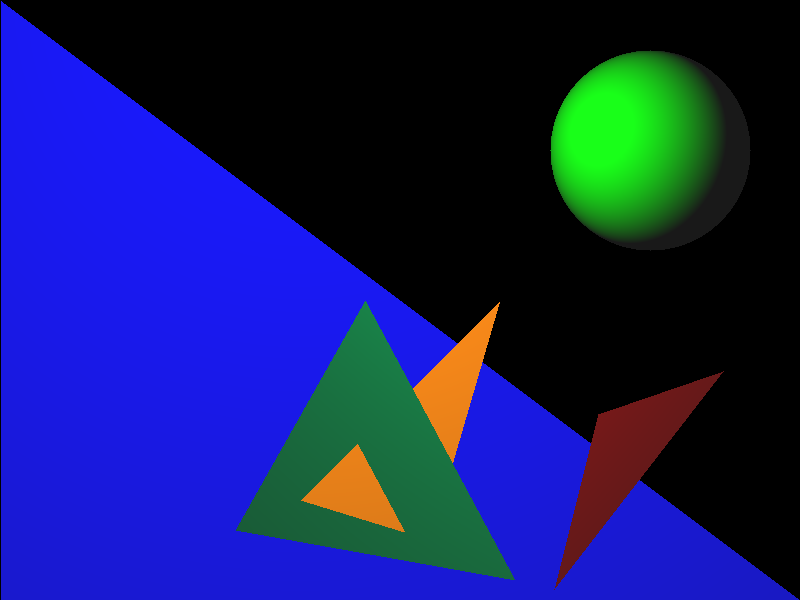
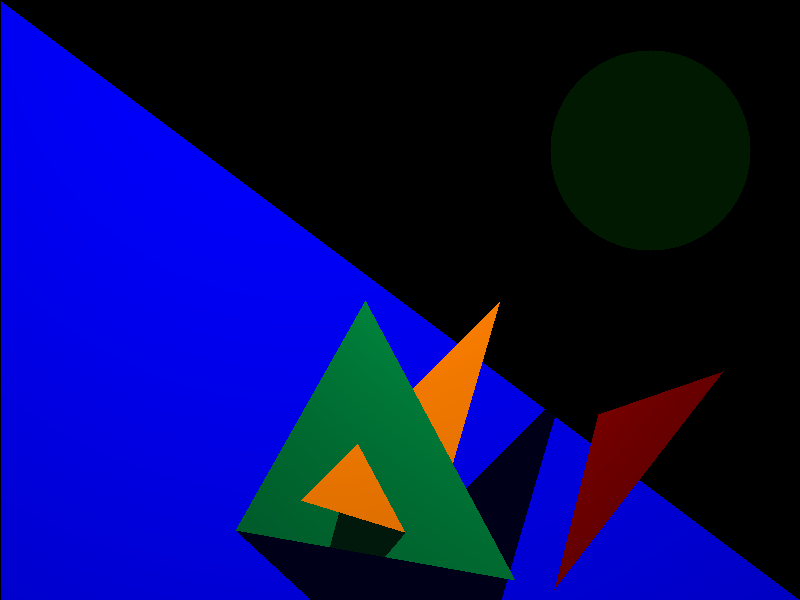
add progress on sphere with shadows

diff --git a/Commons/RayTracer.cs b/Commons/RayTracer.cs
@@ -21,47 +21,71 @@ public class RayTracer(List<IObject3D> sceneObjects, List<LightSource> lightSour
             if (hasHit && intersectionDistance < nearestIntersection)
             {
                 nearestIntersection = intersectionDistance;
+                color = RgbColor.Black;
 
                 var intersectionPoint = CalcHelper.IntersectionPoint(ray, intersectionDistance);
 
-                color = sceneObject switch
-                {
-                    ITriangleBased triangleBased => ColorTriangleBased(triangleBased, intersectionPoint),
-                    Sphere sphere => ColorSphere(sphere, intersectionPoint),
-                    _ => color
-                };
+                foreach (var lightSource in LightSources)
+                    color += sceneObject switch
+                    {
+                        ITriangleBased triangleBased => ColorTriangleBased(triangleBased, intersectionPoint, lightSource),
+                        Sphere sphere => ColorSphere(sphere, intersectionPoint, lightSource),
+                        _ => color
+                    };
+                color += sceneObject.Color * AmbientLight;
             }
         }
 
         return color;
     }
 
-    private RgbColor ColorSphere(Sphere sphere, Vector3D intersectionPoint)
+    private RgbColor ColorSphere(Sphere sphere, Vector3D intersectionPoint, LightSource lightSource)
     {
-        var color = RgbColor.Black;
-        foreach (var lightSource in LightSources)
-        {
-            var n = (intersectionPoint - sphere.Center).Normalize();
-            var s = (lightSource.Position - intersectionPoint).Normalize();
+        var vectorToLightSource = (lightSource.Position - intersectionPoint).Normalize();
+        var intersectionPointIsInShadow = CheckRayIntersectionWithOtherObjects(vectorToLightSource, intersectionPoint, lightSource);
 
-            var colorFactor = s.ScalarProduct(n) > 0 ? s.ScalarProduct(n) : 0;
-            color += new RgbColor(sphere.Color.R, sphere.Color.G, sphere.Color.B) * colorFactor + AmbientLight;
+        if (!intersectionPointIsInShadow)
+        {
+            var normalized = (intersectionPoint - sphere.Center).Normalize();
+            var colorFactor = Math.Max(0, normalized.ScalarProduct(vectorToLightSource));
+            return sphere.Color * lightSource.Color * colorFactor * lightSource.Intensity;
         }
 
-        return color;
+        return RgbColor.Black;
     }
 
-    private RgbColor ColorTriangleBased(ITriangleBased triangle, Vector3D intersectionPoint)
+    private RgbColor ColorTriangleBased(ITriangleBased triangleBased, Vector3D intersectionPoint, LightSource lightSource)
     {
-        var color = RgbColor.Black;
-        foreach (var lightSource in LightSources)
-        {
-            var vectorToLightSource = (lightSource.Position - intersectionPoint).Normalize();
-            var colorFactor = Math.Max(0, triangle.Normalized.ScalarProduct(vectorToLightSource));
+        var vectorToLightSource = (lightSource.Position - intersectionPoint).Normalize();
+        var intersectionPointIsInShadow = CheckRayIntersectionWithOtherObjects(vectorToLightSource, intersectionPoint, lightSource);
 
-            color += triangle.Color * lightSource.Color * colorFactor * lightSource.Intensity + AmbientLight;
+        if (!intersectionPointIsInShadow)
+        {
+            var colorFactor = Math.Max(0, triangleBased.Normalized.ScalarProduct(vectorToLightSource));
+            return triangleBased.Color * lightSource.Color * colorFactor * lightSource.Intensity;
         }
 
-        return color;
+        return RgbColor.Black;
+    }
+
+    private bool CheckRayIntersectionWithOtherObjects(Vector3D vectorToLightSource, Vector3D intersectionPoint, LightSource lightSource)
+    {
+        var intersectionPointIsInShadow = false;
+        var rayToLightSource = new Ray(intersectionPoint + vectorToLightSource * MathConstants.Epsilon, vectorToLightSource);
+        var distanceToLightSource = Math.Abs((intersectionPoint - lightSource.Position).Length);
+        foreach (var sceneObject in SceneObjects)
+        {
+            var (hasHit, intersectionDistance) = sceneObject.NextIntersection(rayToLightSource);
+            if (!hasHit) continue;
+
+            var intersectionPointWithOtherObject = CalcHelper.IntersectionPoint(rayToLightSource, intersectionDistance);
+
+            var distanceToIntersectionPointWithOtherObject = Math.Abs((intersectionPoint - intersectionPointWithOtherObject).Length);
+
+            if (distanceToIntersectionPointWithOtherObject < distanceToLightSource)
+                intersectionPointIsInShadow = true;
+        }
+
+        return intersectionPointIsInShadow;
     }
 }

diff --git a/Shadows/Program.cs b/Shadows/Program.cs
@@ -13,13 +13,13 @@ internal static class Program
     private const int Depth = 600;
     private const string FilePath = ImageHandler.ImageFolderPath + "shadows.png";
 
-    private static readonly List<Triangle> Planes =
+    private static readonly List<IObject3D> Objects3D =
     [
-        new(new Vector3D(0, 600, 600), new Vector3D(800, 600, 600), new Vector3D(0, 0, 600), RgbColor.Blue),
+        new Triangle(new Vector3D(0, 600, 600), new Vector3D(800, 600, 600), new Vector3D(0, 0, 600), RgbColor.Blue),
+        new Triangle(new Vector3D(430, 540, 400), new Vector3D(500, 300, 400), new Vector3D(300, 500, 400), RgbColor.Orange),
+        new Triangle(new Vector3D(598, 414, 105), new Vector3D(723, 371, 255), new Vector3D(554, 589, 192), RgbColor.Red),
 
-        new(new Vector3D(430, 540, 400), new Vector3D(500, 300, 400), new Vector3D(300, 500, 400), RgbColor.Orange),
-
-        new(new Vector3D(598, 414, 105), new Vector3D(723, 371, 255), new Vector3D(554, 589, 192), RgbColor.Red)
+        new Sphere(new Vector3D(150, 150, 200), 100, RgbColor.Green)
     ];
 
     private static readonly List<LightSource> LightSources =
@@ -46,65 +46,16 @@ internal static class Program
 
     private static void CreateImage()
     {
+        var rayTracer = new RayTracer(Objects3D, LightSources);
         using var image = new Image<Rgba32>(Width, Height);
         for (var y = 0; y < Height; y++)
             for (var x = 0; x < Width; x++)
             {
-                var color = RgbColor.Black;
-                var nearestLambda = double.MaxValue;
-
                 var rayIntoScreen = new Ray(new Vector3D(x, y, 0), new Vector3D(0, 0, 1));
-
-                foreach (var plane in Planes)
-                {
-                    var currentLambda = plane.NextIntersection(rayIntoScreen);
-                    if (currentLambda < nearestLambda)
-                    {
-                        color = RgbColor.Black;
-                        nearestLambda = currentLambda;
-                        var intersectionPoint = rayIntoScreen.Origin + rayIntoScreen.Direction * currentLambda;
-
-                        foreach (var lightSource in LightSources)
-                        {
-                            var intersectionPointIsInShadow = false;
-                            var vectorToLightSource = (lightSource.Position - intersectionPoint).Normalize();
-                            var rayToLightSource = new Ray(intersectionPoint + vectorToLightSource * MathConstants.Epsilon, vectorToLightSource);
-
-                            intersectionPointIsInShadow = CheckRayIntersectionWithOtherObjects(rayToLightSource, intersectionPoint, lightSource);
-
-                            if (!intersectionPointIsInShadow)
-                            {
-                                var scalarProductOfNormalizedPLaneToLightSource = Math.Max(0, plane.Normalized.ScalarProduct(vectorToLightSource));
-                                color += plane.Color * lightSource.Color * scalarProductOfNormalizedPLaneToLightSource * lightSource.Intensity;
-                            }
-                        }
-
-                        color += plane.Color * new RgbColor(0.1, 0.1, 0.1);
-                    }
-                }
-
+                var color = rayTracer.CalcRay(rayIntoScreen);
                 image[x, y] = color.ConvertToRgba32();
             }
 
         image.SaveAsPng(FilePath);
-    }
-
-    private static bool CheckRayIntersectionWithOtherObjects(Ray rayToLightSource, Vector3D intersectionPoint, LightSource lightSource)
-    {
-        var intersectionPointIsInShadow = false;
-        var distanceToLightSource = Math.Abs((intersectionPoint - lightSource.Position).Length);
-        foreach (var plane2 in Planes)
-        {
-            var lambda2 = plane2.NextIntersection(rayToLightSource);
-            var intersectionPointWithOtherObject = rayToLightSource.Origin + rayToLightSource.Direction * lambda2;
-
-            var distanceToIntersectionPointWithOtherObject =
-                Math.Abs((intersectionPoint - intersectionPointWithOtherObject).Length);
-
-            if (distanceToIntersectionPointWithOtherObject < distanceToLightSource)
-                intersectionPointIsInShadow = true;
-        }
-
-        return intersectionPointIsInShadow;
     }
 }

diff --git a/Commons/3D/IObject3D.cs b/Commons/3D/IObject3D.cs
@@ -2,5 +2,6 @@
 
 public interface IObject3D
 {
+    RgbColor Color { get; }
     (bool hasHit, double intersectionDistance) NextIntersection(Ray ray);
 }

diff --git a/Commons/3D/ITriangleBased.cs b/Commons/3D/ITriangleBased.cs
@@ -3,5 +3,4 @@
 public interface ITriangleBased : IObject3D
 {
     Vector3D Normalized { get; }
-    RgbColor Color { get; }
 }
